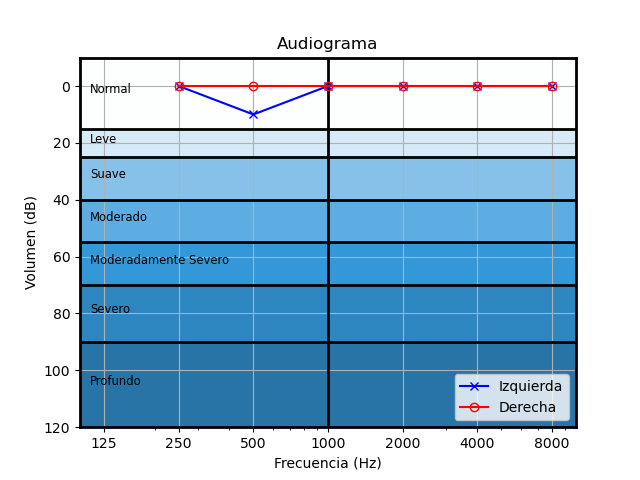
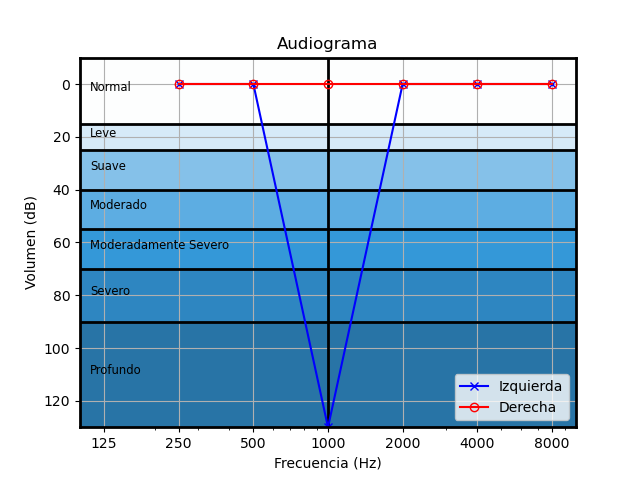
Solucionado problemas Audiometria

diff --git a/Unity/Demo/Assets/Scripts/AudiometryManager.cs b/Unity/Demo/Assets/Scripts/AudiometryManager.cs
@@ -89,12 +89,13 @@ public class AudiometryManager : MonoBehaviour
     public void NextSound()
     {
         if (ear)
-            guardarLeftHZ[sonidoActual] = volumen;
+            guardarLeftHZ[ordenSonidos[sonidoActual] - 1] = volumen;
         else
-            guardarRightHZ[sonidoActual] = volumen;
+            guardarRightHZ[ordenSonidos[sonidoActual] - 1] = volumen;
 
         volumen = 0;
         sonidoActual++;
+        AudiometryUIManager.instance.SetTextVol();
         actualEar.setParameterByName("HZ", ordenSonidos[sonidoActual]);
         actualEar.setParameterByName("dB", volumen);
     }
@@ -123,12 +124,14 @@ public class AudiometryManager : MonoBehaviour
         {
             izquierda += $"{frecuencias[i]} {guardarLeftHZ[i]}\n";
         }
+        Debug.Log(izquierda);
 
         string derecha = "Right\n";
         for (int i = 0; i < guardarRightHZ.Length; i++)
         {
             derecha += $"{frecuencias[i]} {guardarRightHZ[i]}\n";
         }
+        Debug.Log(derecha);
 
         string resultados = izquierda + derecha;
 
@@ -138,7 +141,6 @@ public class AudiometryManager : MonoBehaviour
         // Guardar el archivo
         File.WriteAllText(path, resultados);
 
-        GameManager.Instance.SetAudiometry(true, guardarLeftHZ);
-        GameManager.Instance.SetAudiometry(false, guardarRightHZ);
+        GameManager.Instance.SetAudiometry(guardarLeftHZ, guardarRightHZ);
     }
 }

diff --git a/Unity/Demo/Assets/Python/audiometry.py b/Unity/Demo/Assets/Python/audiometry.py
@@ -37,7 +37,7 @@ def plot_colores():
             'Moderado': [40,55,'#5dade2'],
             'Moderadamente Severo': [55,70,'#3498d8'],
             'Severo': [70,90,'#2e86c1'],
-            'Profundo': [90,120,'#2874a6']}
+            'Profundo': [90,130,'#2874a6']}
 
     for gravedad in niveles.keys():
         min_db = niveles[gravedad][0]
@@ -81,7 +81,7 @@ def plot_audiograma(audiograma, colores=False):
     plt.plot(audiograma['Right'].keys(), audiograma['Right'].values(), 'o-', fillstyle='none', color='r', label='Derecha')
         
     plt.gca().set_xscale('log')
-    plt.gca().axis([100, 10000, -10, 120])
+    plt.gca().axis([100, 10000, -10, 130])
     plt.gca().set_xticks([125,250,500,1000,2000,4000,8000])
     plt.gca().set_xticklabels([125,250,500,1000,2000,4000,8000])
     plt.grid()

diff --git a/Unity/Demo/Assets/Scripts/GameManager.cs b/Unity/Demo/Assets/Scripts/GameManager.cs
@@ -31,12 +31,10 @@ public class GameManager : MonoBehaviour
         SceneManager.LoadScene(nameScene, LoadSceneMode.Single);
     }
 
-    public void SetAudiometry(bool left, int[] audiometry)
+    public void SetAudiometry(int[] audiometryLeft, int[] audiometryRight)
     {
-        if (left)
-            audiometry.CopyTo(leftHZ, 0);
-        else
-            audiometry.CopyTo(rightHZ, 0);
+        audiometryLeft.CopyTo(leftHZ, 0);
+        audiometryRight.CopyTo(rightHZ, 0);
     }
 
     public void SetGlobalParameter(string parameterName, float value)

diff --git a/Unity/Demo/Assets/Scripts/AudiometryUIManager.cs b/Unity/Demo/Assets/Scripts/AudiometryUIManager.cs
@@ -84,4 +84,9 @@ public class AudiometryUIManager : MonoBehaviour
         if (vol >= 130)
             textVol.text = "MAX";
     }
+
+    public void SetTextVol()
+    {
+        textVol.text = "+ Volumen";
+    }
 }
